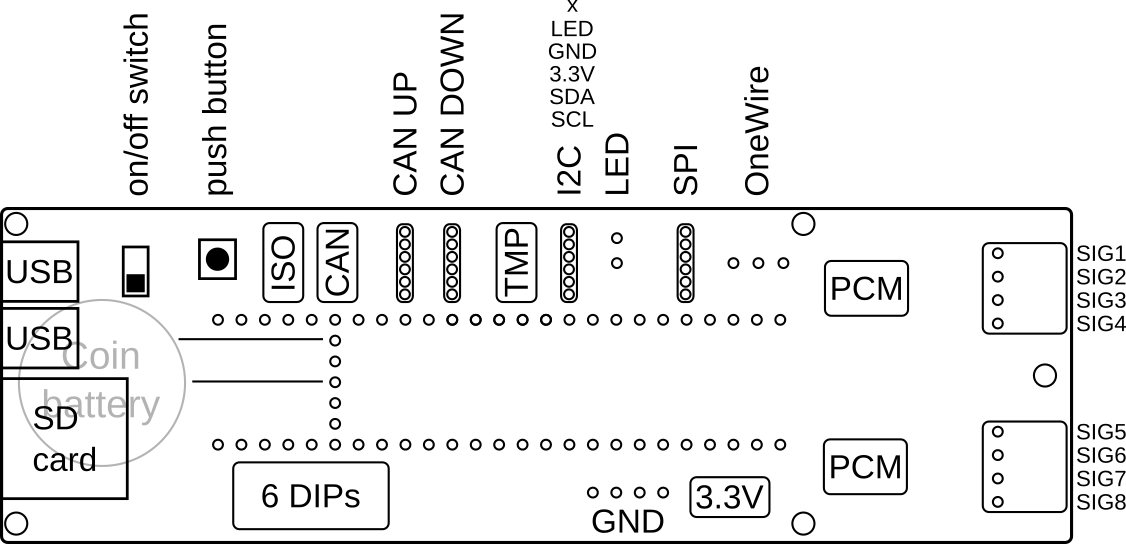
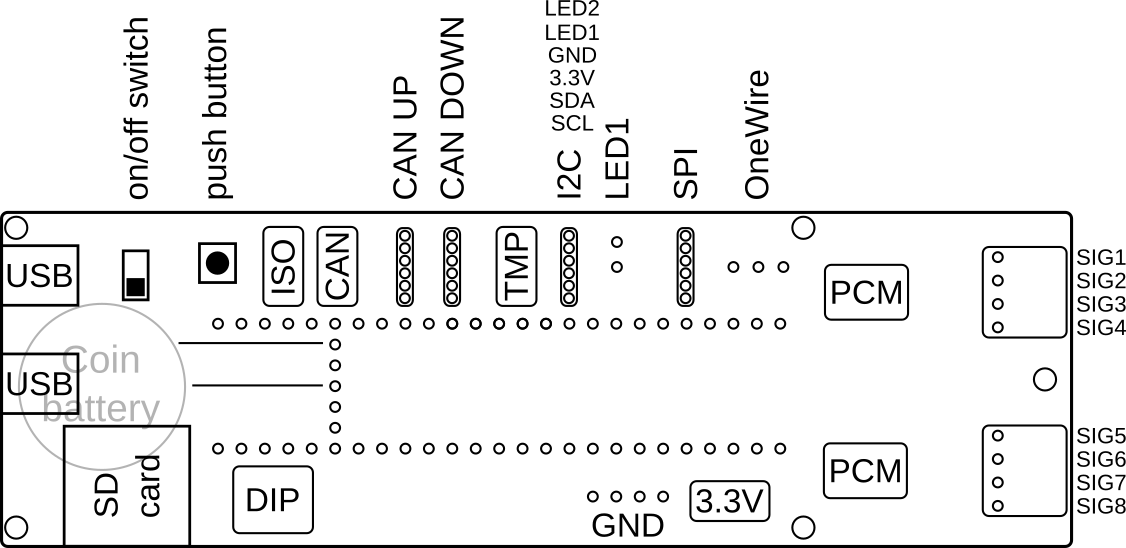
[R4.1b] update

diff --git a/R4.1/r41b.md b/R4.1/r41b.md
@@ -14,7 +14,7 @@ Benda](https://github.com/janscience).
 ![pinout](images/teensy41-R41b-pinout.png)
 
 - The TDM bus and corresponding I2C control pins (yellow and orange) are fixed.
-- The I2C bus pins are fixed (light purple).
+- The I2C bus pins are fixed (SDA2, SCL2, light purple).
 - The SPI bus pins are fixed (green).
 - The CAN bus pins (pink, CRX and CTX) are fixed.
 - All other pins can be moved or exchanged:
@@ -30,7 +30,7 @@ Benda](https://github.com/janscience).
 ![layout](images/layout.png)
 
 - The width of the PCB can be increased to 50mm, maximum 56mm.
-- The length is unlimited.
+- The length is not limited.
 
 
 ## PCM1865
@@ -150,14 +150,15 @@ standby functionalities of the transceiver anymore.
 | -------------: | :--------------- | :-------------- | :-------------- | :------------ | :----------- | :------------- |
 | 3.3V           | VDD              | VCC1            |                 |               |              |                |
 | GND            | GND              | GND1            |                 |               |              |                |
-|                |                  |                 | External VCC2   | External VCC  | 1            | 1              |
-|                |                  |                 | External GND2   | External GND  | 2            | 2              |
+|                |                  |                 |                 |               | 1 (5 - 12V)  | 1 (5 - 12V)    |
+|                |                  |                 | External VCC2   | External VCC  | 2            | 2              |
+|                |                  |                 | External GND2   | External GND  | 3            | 3              |
 | (36) remove    | (CAN SHDN)       |                 |                 |               |              |                |
 | (37) remove    | (CAN STB)        |                 |                 |               |              |                |
-| 30             | CAN RX           | OUTA            | INA             | RXD           | 3 CANL       | 3 CANL         |
-| 31             | CAN TX           | INA             | OUTA            | TXD           | 4 CANH       | 4 CANH         |
-| 28 (was 40)    | I/O UP           | INB             | OUTB            |               | 5 I/O        |                |
-| 29 (was 41)    | I/O DOWN         | OUTB            | INB             |               |              | 5 I/O          |
+| 30             | CAN RX           | OUTA            | INA             | RXD           | 4 CANL       | 4 CANL         |
+| 31             | CAN TX           | INA             | OUTA            | TXD           | 5 CANH       | 5 CANH         |
+| 28 (was 40)    | I/O UP           | INB             | OUTB            |               | 6 I/O        |                |
+| 29 (was 41)    | I/O DOWN         | OUTB            | INB             |               |              | 6 I/O          |
 |                |                  | EN1 to VCC1     | EN2 to VCC2     |               |              |                |
 
 Two ERNI MiniBridge vertical males with 6 contacts (external GND, external 3.3V, CANL CANH, I/O, unueed) one for upstream, one for downstream.
@@ -202,39 +203,18 @@ SD card over the SPI1 bus with alternate MISO pin:
 See [wikipedia](https://en.wikipedia.org/wiki/SD_card#Transfer_modes)
 for pinout of micro SD cards.
 
-The [Micro SD Card Adaptor](https://www.pjrc.com/store/sd_adaptor.html)
-uses a 74LCX125 level shifter for SCK1, MOSI1 and CS1:
-
-![sdadaptor](https://www.pjrc.com/teensy/schematic_sd_adaptor.gif)
-
-Do we really need this? We operate at 3.3V anyways.
-
-MISO has a 10k pullup resistance to VDD.
-
 
 ## Device identifier DIPs
 
-![deviceiddips](images/deviceiddips.png)
-
 For setting a device identifier that can be used to name the recorded
-files, 6 DIP switches are connected to Teensy pins . Only while the
-device ID is read in, 3.3V are supplied to the dip switches via Teensy
-pin 14. The pull-down resistances have about 7kOhm. When a switch is
-closed, this makes 0.5mA. Six switches closed makes in sum 3mA, which is
-just below the maximum possible 4mA:
+files, a 4-bit [rotary DIP
+switch](https://www.mouser.de/datasheet/2/1628/rds_74385_smt-3510719.pdf)
+is connected to Teensy pins.
 
-R0 - R5 = 7kOhm or 10kOhm
-
-The bit pattern read in on Teensy pins can be transformed into a
-number between 0-63.
-
-| Teensy 4.1 pin    | Teensy_Amp R4.1b |
-| ----------------: | :--------------- |
-| GND               | GND              |
-| 14                | Power to DIPs    |
-| 41,40,37,36,35,34 | Device ID DIPs with pull-down 7k resistance  |
-
-Alternative: [rotary DIP switch](https://www.mouser.de/datasheet/2/1628/rds_74385_smt-3510719.pdf)
+| Teensy 4.1 pin    | Teensy_Amp R4.1b  |
+| ----------------: | :---------------- |
+| GND               | GND               |
+| 34, 35, 36, 37    | DIP bits 0 - 3    |
 
 
 ## Power
@@ -309,9 +289,9 @@ Potential external sensors and devices to be connected to the R4.1b:
 | 12             | SPI MISO         |
 | 13             | SPI SCK          |
 
-- I2C: ERNI MiniBridge vertical male with 6 contacts (GND, 3.3V, SCL, SDA. LED, unused)
+- I2C: ERNI MiniBridge vertical male with 6 contacts (GND, 3.3V, SCL, SDA. LED1, LED2)
 - SPI: ERNI MiniBridge vertical male with 6 contacts (GND, 3.3V, CS, SCK, MOSI, MISO)
-- OneWire: 3 pins in 2.54mm spacing
+- OneWire: 3 pins in 2.54mm spacing (GND, 3.3V, DATA + 4.7kOhm to 3.3V)
 
 
 ## Improvements
